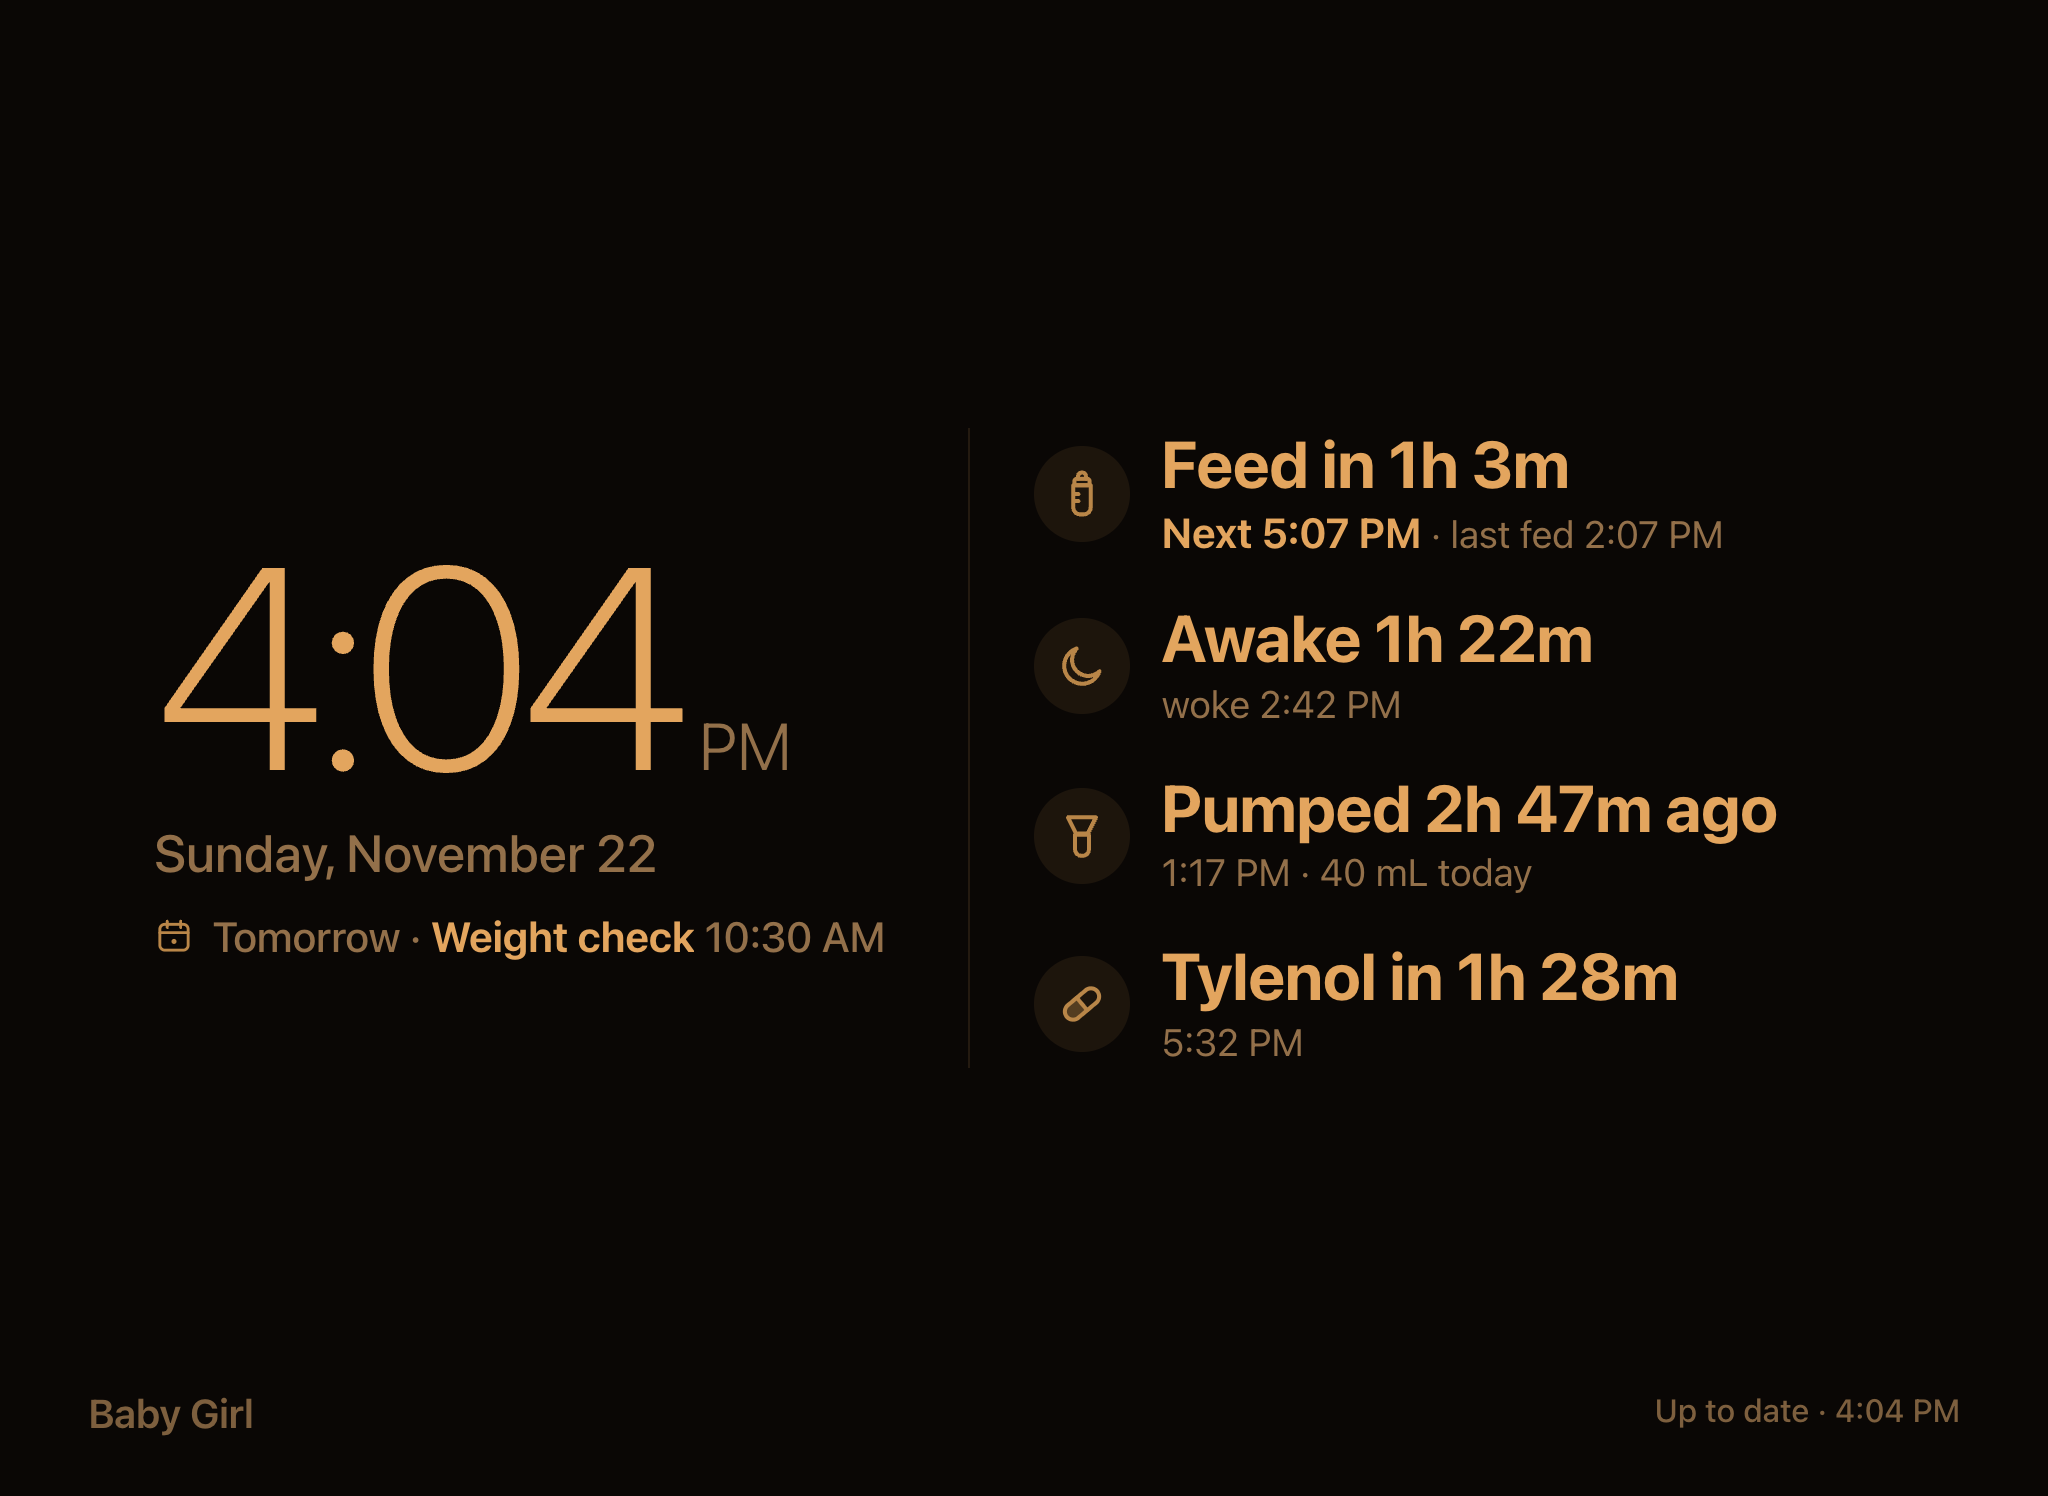
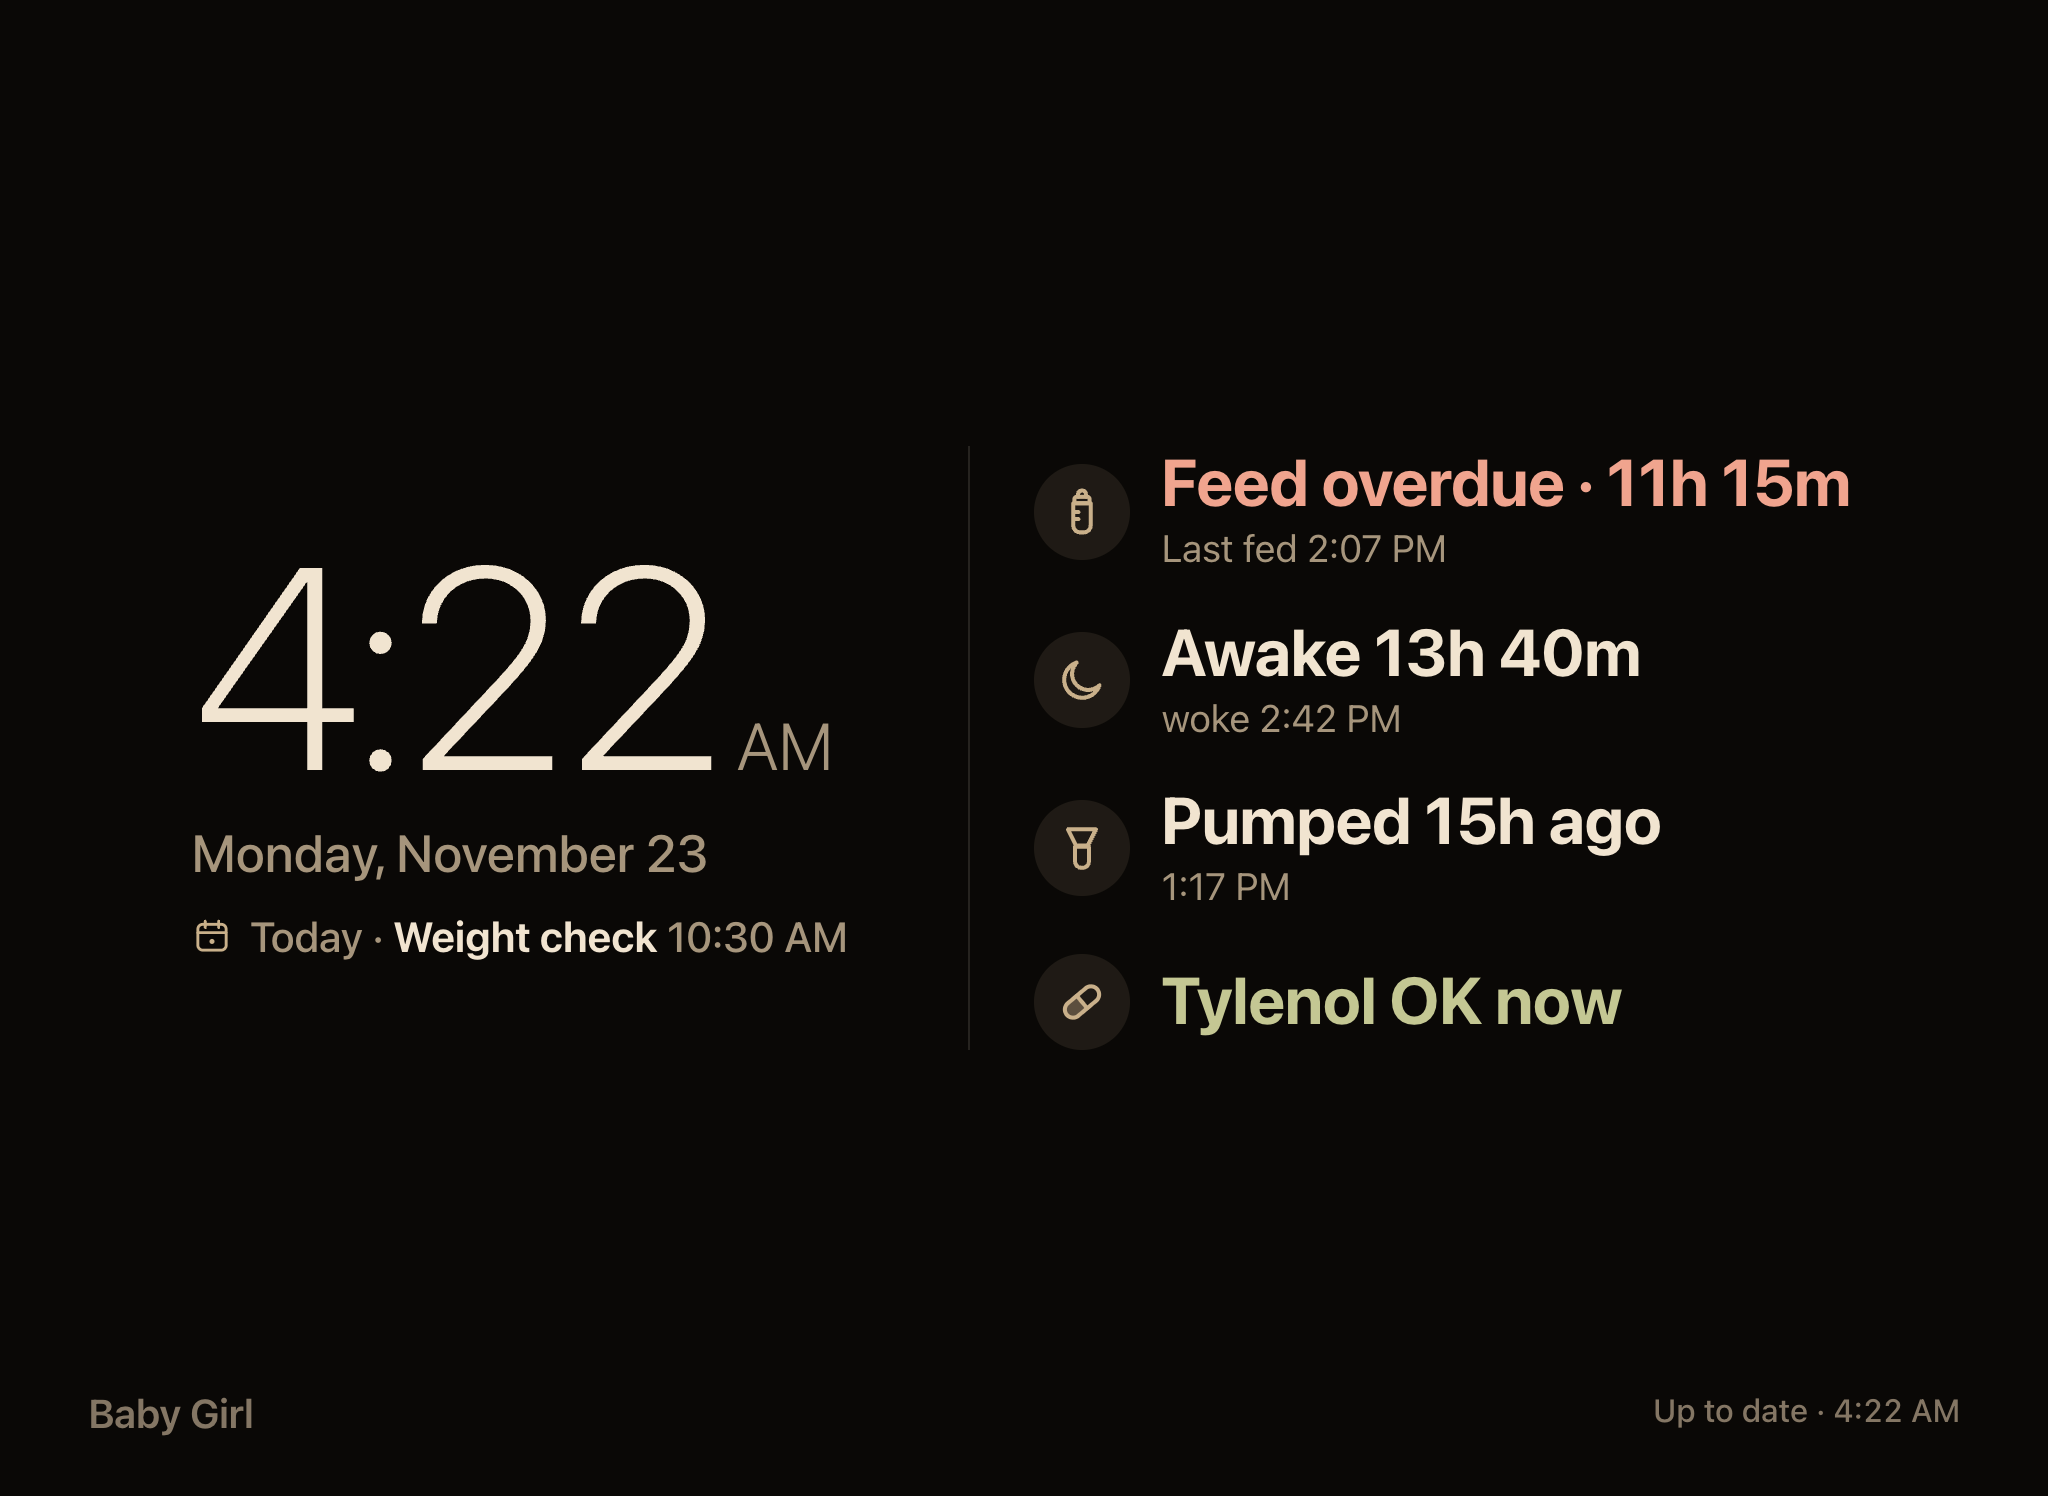
Night clock: warm near-white instead of amber; release notes 1.35

diff --git a/src/styles.css b/src/styles.css
@@ -325,7 +325,7 @@ table.compare td:nth-child(2) { font-weight: 700; }
 .sky { position: fixed; inset: 0; z-index: -1; pointer-events: none; background: var(--sky-paint); }
 
 /* Clock mode: big screens held sideways, after a few idle minutes (per device). One tap anywhere returns to Today. */
-/* Clock mode is paper by day and ember (amber on near-black) during this screen's Dim hours. The palette lives in
+/* Clock mode is paper by day and ember (warm white on near-black) during this screen's Dim hours. The palette lives in
    registered custom properties so the switch fades over a minute instead of flipping; --text/--muted/--red/… are
    re-pointed inside so shared classes (.red, .green, .amber, .clock-sync.warn) pick it up. */
 @property --ck-bg { syntax: '<color>'; inherits: true; initial-value: #efe9dc; }
@@ -348,8 +348,8 @@ table.compare td:nth-child(2) { font-weight: 700; }
   transition: --ck-bg 60s, --ck-glow 60s, --ck-text 60s, --ck-muted 60s, --ck-faint 60s, --ck-line 60s, --ck-red 60s, --ck-green 60s, --ck-amber 60s, --ck-feed 60s, --ck-sleep 60s, --ck-pump 60s, --ck-med 60s, --ck-appt 60s; }
 .clock-mode.paper { --ck-bg: #efe9dc; --ck-glow: #fbf8f1; --ck-text: #2a2620; --ck-muted: #776f62; --ck-faint: #8d8475; --ck-line: rgba(60,45,20,.13); --ck-red: #b3402c; --ck-green: #2c7a4b; --ck-amber: #a96a12;
   --ck-feed: #4a62c4; --ck-sleep: #9c7a22; --ck-pump: #8450b3; --ck-med: #b06f16; --ck-appt: #b8577a; }
-.clock-mode.ember { --ck-bg: #0a0705; --ck-glow: #0a0705; --ck-text: #e3a55e; --ck-muted: #93704a; --ck-faint: #7d5f3e; --ck-line: rgba(227,165,94,.12); --ck-red: #e0745a; --ck-green: #b4b86a; --ck-amber: #f8d98a;
-  --ck-feed: #b98648; --ck-sleep: #b98648; --ck-pump: #b98648; --ck-med: #b98648; --ck-appt: #b98648; }
+.clock-mode.ember { --ck-bg: #0a0806; --ck-glow: #0a0806; --ck-text: #f1e4d0; --ck-muted: #a6957c; --ck-faint: #847664; --ck-line: rgba(241,228,208,.12); --ck-red: #f0a48e; --ck-green: #c4c793; --ck-amber: #f6cf7a;
+  --ck-feed: #c9b08a; --ck-sleep: #c9b08a; --ck-pump: #c9b08a; --ck-med: #c9b08a; --ck-appt: #c9b08a; }
 .clock-mode .ico.t-feed { color: var(--ck-feed); } .clock-mode .ico.t-sleep { color: var(--ck-sleep); } .clock-mode .ico.t-pump { color: var(--ck-pump); } .clock-mode .ico.t-mom_med { color: var(--ck-med); }
 .clock-appt { display: flex; align-items: center; margin-top: 10px; font-size: 21px; font-weight: 500; color: var(--ck-muted); white-space: nowrap; }
 .clock-appt svg { width: 20px; height: 20px; flex: none; margin-right: 9px; color: var(--ck-appt); }

diff --git a/docs/release-notes/index.html b/docs/release-notes/index.html
@@ -90,7 +90,7 @@
     <h1>bébé <span>tracker</span></h1>
     <p class="lede">A shared logbook for a newborn's feeds, diapers, pumping and mom's meds. Two phones, one live dataset, built for one-handed use at 3 am. This page follows how it changed over its first ten days.</p>
     <div class="facts">
-      <span><b>73</b> releases</span>
+      <span><b>74</b> releases</span>
       <span><b>71</b> days</span>
       <span><b>5</b> tabs</span>
       <span><b>45</b> automated tests</span>
@@ -681,7 +681,19 @@
         </ul>
         <div class="shots">
           <figure class="phone"><div class="screen" style="aspect-ratio: 1024 / 748"><img src="shots/ipad-clock.png" alt="Clock mode by day: dark text on warm off-white, with tomorrow's appointment under the date." loading="lazy"></div><figcaption><b>Day</b>Paper and ink.</figcaption></figure>
-          <figure class="phone"><div class="screen" style="aspect-ratio: 1024 / 748"><img src="shots/ipad-clock-night.png" alt="Clock mode at night: soft amber text on near-black." loading="lazy"></div><figcaption><b>Night</b>Amber, so the room stays dark.</figcaption></figure>
+          <figure class="phone"><div class="screen" style="aspect-ratio: 1024 / 748"><img src="shots/ipad-clock-night.png" alt="Clock mode at night, as of 1.35: warm near-white text on near-black." loading="lazy"></div><figcaption><b>Night</b>Dark, so the room stays dark.</figcaption></figure>
+        </div>
+      </div>
+    </article>
+    <article class="release">
+      <div class="stamp"><div class="ver">1.35</div><div class="when">Mon Nov 23</div></div>
+      <div class="body">
+        <h2>Warmer white at night</h2>
+        <ul class="notes">
+          <li><b>Less orange.</b> The night clock was reading orange-red on the iPad. Its text is now a warm near-white, like candlelight on paper, still on near-black so the room stays dark. Overdue is a soft coral and "Feed due" a pale gold, so both still stand out from the white.</li>
+        </ul>
+        <div class="shots">
+          <figure class="phone"><div class="screen" style="aspect-ratio: 1024 / 748"><img src="shots/ipad-clock-night.png" alt="Clock mode at night: warm near-white text on near-black." loading="lazy"></div><figcaption><b>Night</b>Warm white, not orange.</figcaption></figure>
         </div>
       </div>
     </article>

diff --git a/CLAUDE.md b/CLAUDE.md
@@ -35,7 +35,7 @@ Tabs: Today · Summary (By day / All entries) · Weight · Appts · Settings. Su
 
 ## Conventions
 - Per-device settings (`src/device.tsx`, localStorage `bebe.device`, not synced): keep screen awake (Screen Wake Lock, re-taken on return) and night dimming on a schedule (a fixed `.night-dim` layer over everything, taps pass through). `DeviceEffects` is mounted once in the Shell. Settings' first card is "This device".
-- Clock mode (per device, `clockAfterMin`, 0 = off; the Settings option shows only when `bigScreen()`): on Today in tablet landscape, after that many idle minutes (`useIdleClock` in `src/device.tsx`; never while a sheet/overlay is open) a full-screen `.clock-mode` (z 150, under the night dimmer) shows the time, date, the next appointment when it's today or tomorrow (counts down inside 2 h; only the title ellipsizes) and feed/sleep/pump/next-med lines computed in `Today.tsx`. It is `.paper` (dark ink on warm off-white) by day and `.ember` (amber on near-black) inside this device's Dim hours (`dev.dim` start/end, even with Dim off); the palette is registered `--ck-*` properties that fade over 60 s, and `--text`/`--muted`/`--red`/`--green`/`--amber` are re-pointed inside `.clock-mode`. The iOS status bar stays white-on-translucent over paper (it's fixed at launch). While it shows, touches don't reset the timer; only the clock's own click dismisses it, so the waking tap never reaches a button.
+- Clock mode (per device, `clockAfterMin`, 0 = off; the Settings option shows only when `bigScreen()`): on Today in tablet landscape, after that many idle minutes (`useIdleClock` in `src/device.tsx`; never while a sheet/overlay is open) a full-screen `.clock-mode` (z 150, under the night dimmer) shows the time, date, the next appointment when it's today or tomorrow (counts down inside 2 h; only the title ellipsizes) and feed/sleep/pump/next-med lines computed in `Today.tsx`. It is `.paper` (dark ink on warm off-white) by day and `.ember` (warm near-white on near-black) inside this device's Dim hours (`dev.dim` start/end, even with Dim off); the palette is registered `--ck-*` properties that fade over 60 s, and `--text`/`--muted`/`--red`/`--green`/`--amber` are re-pointed inside `.clock-mode`. The iOS status bar stays white-on-translucent over paper (it's fixed at launch). While it shows, touches don't reset the timer; only the clock's own click dismisses it, so the waking tap never reaches a button.
 - Tablet landscape (`min-width: 960px` and landscape, e.g. iPad mini): Today becomes two columns, `.col-glance` (timers, bigger type) and `.col-stats` (Today so far, sleep stats, next appt); both wrappers are `display: contents` on phones. Must still fit 1024x748 without scrolling.
 - Sky (since 2026-11-21): a fixed `.sky` layer behind everything (rendered by `DeviceEffects`) paints a radial glow from the top whose colour follows this device's clock (`skyAt` in `src/device.tsx` sets `html[data-sky]`: dawn 5–8, day 8–16, golden 16–19, dusk 19–21, night 21–5; `--sky` is an `@property` color that transitions over 120 s). `body` is transparent and `html` carries `--bg`; the status-bar strip uses the same `--sky-paint` so there's no seam. Today's cards are 88% opaque so the sky tints them; all text stays on cards. Cards share `--lift` (top hairline + two-part shadow); `h3` is sentence case, not uppercase.
 - iOS 26 home-screen apps blur a band ~40pt below the status bar (`black-translucent`). Screens start at `env(safe-area-inset-top) + 30px` or more; don't put content higher.
